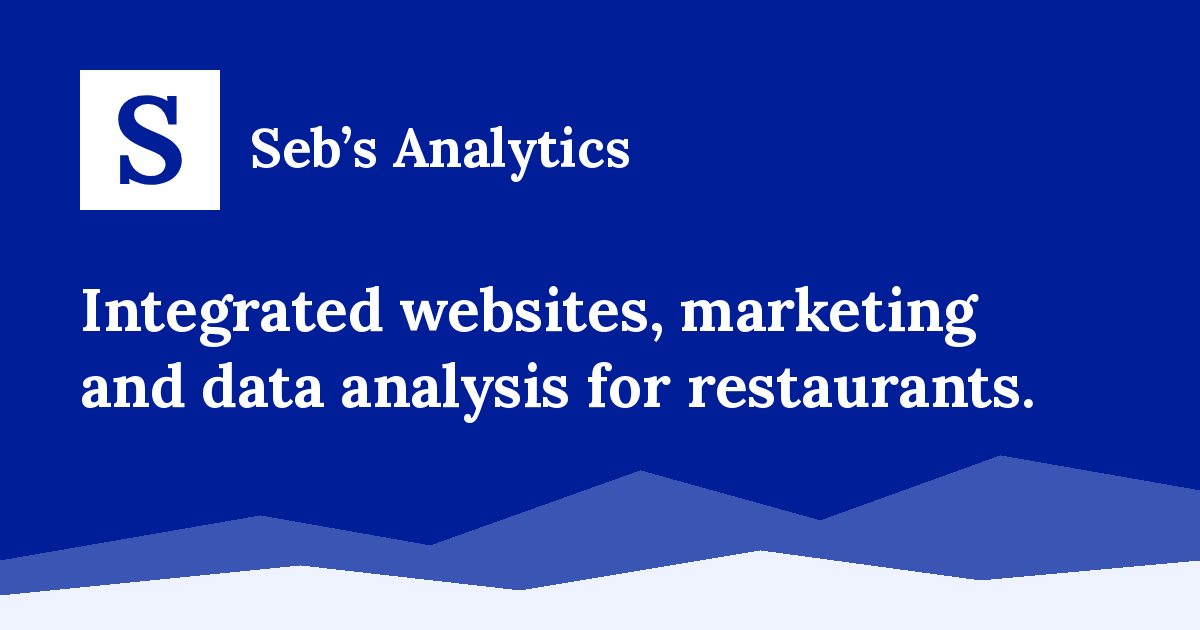
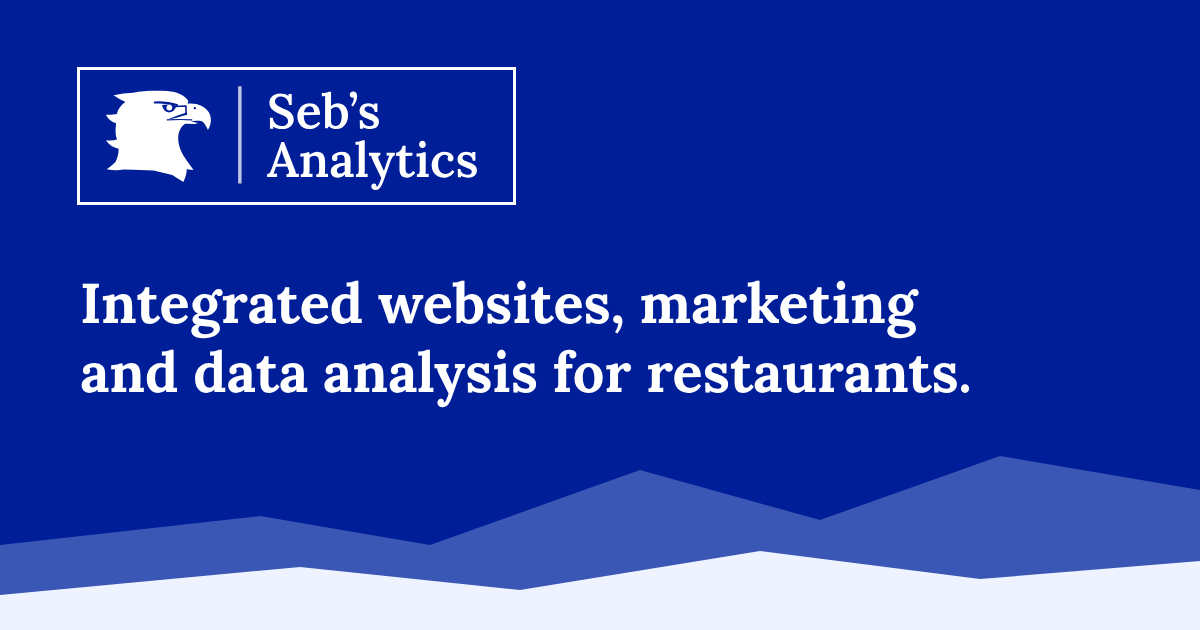
Add files via upload

diff --git a/index.html b/index.html
@@ -20,8 +20,8 @@
 <link rel="apple-touch-icon" href="/apple-touch-icon.png">
 <link rel="preload" href="/fonts/lora.woff2" as="font" type="font/woff2" crossorigin>
 <link rel="preload" href="/fonts/lato-400.woff2" as="font" type="font/woff2" crossorigin>
-<link rel="stylesheet" href="/site.css?v=18f8bafe">
-<script src="/js/home.js?v=8cb29528" defer></script>
+<link rel="stylesheet" href="/site.css?v=88af6a16">
+<script src="/js/home.js?v=9d1bd1b2" defer></script>
 <script src="/js/waves.js?v=0a957a60" defer></script>
 </head>
 <body>
@@ -32,7 +32,7 @@
   <!-- HEADER -->
   <header style="background: #FFFFFF">
     <div class="site-head" style="max-width: 1240px; margin: 0 auto; padding: 10px clamp(20px, 4vw, 40px); box-sizing: border-box; display: flex; flex-wrap: wrap; align-items: center; justify-content: space-between; gap: 16px">
-      <a href="/" class="brand" aria-label="Seb's Analytics, home" style="display: flex; align-items: center; gap: 12px; text-decoration: none; min-height: 52px"><svg width="52" height="52" aria-hidden="true" xmlns="http://www.w3.org/2000/svg" viewBox="0 0 100 100"><rect width="100" height="100" fill="#001E97"/><path fill="#FFFFFF" transform="translate(23.51 80.60) scale(0.08743 -0.08743)" d="M454 476Q445 532 422.0 569.5Q399 607 363.5 626.0Q328 645 281 644Q238 644 205.5 620.0Q173 596 173 558Q173 527 190.5 504.0Q208 481 244.0 461.0Q280 441 335 418Q373 403 413.0 383.0Q453 363 487.0 335.5Q521 308 542.0 271.5Q563 235 563 186Q563 127 531.0 81.0Q499 35 441.5 9.5Q384 -16 307 -16Q267 -16 220.5 -3.5Q174 9 133 33L136 -9H59V225H125Q139 141 189.5 98.5Q240 56 310 56Q346 56 373.0 69.0Q400 82 415.0 103.5Q430 125 430 150Q430 185 405.5 208.0Q381 231 344.5 247.0Q308 263 270 278Q222 298 180.5 320.5Q139 343 108.0 372.0Q77 401 60.0 438.5Q43 476 43 525Q43 556 55.0 589.5Q67 623 94.0 651.5Q121 680 166.0 698.0Q211 716 277 716Q317 716 364.5 704.0Q412 692 446 668L442 709H520V476Z"/></svg><span style="font-family: 'Lora', Georgia, serif; font-weight: 700; font-size: 24px; color: #001E97; letter-spacing: 0.005em">Seb&rsquo;s Analytics</span></a>
+      <a href="/" class="brand" aria-label="Seb's Analytics, home"><img src="/img/sebs-logo.svg" width="190" height="58" alt="" fetchpriority="high"></a>
       <nav aria-label="Main" style="display: flex; flex-wrap: wrap; align-items: center; gap: 8px 26px; font-family: 'Lora', Georgia, serif; font-weight: 600; font-size: 16px">
         <a href="#system" style="color: #001E97; text-decoration: none">The system</a>
         <a href="#research" style="color: #001E97; text-decoration: none">Research</a>
@@ -49,24 +49,15 @@
 
   <!-- WHY -->
   <section style="background: #001E97; color: #FFFFFF; position: relative; overflow: hidden">
-    <svg viewBox="0 0 1440 360" preserveAspectRatio="none" style="position: absolute; left: 0; right: 0; bottom: 0; width: 100%; height: 300px" aria-hidden="true">
+    <svg viewBox="0 0 1440 360" preserveAspectRatio="none" style="position: absolute; left: 0; right: 0; bottom: 0; width: 100%; height: 170px" aria-hidden="true">
       <polygon points="0,360 0,230 160,170 300,215 470,110 600,170 760,60 900,140 1060,40 1220,120 1340,80 1440,110 1440,360" fill="#C6D6FF" opacity="0.35"></polygon>
       <polygon points="0,360 0,280 200,220 360,260 540,170 700,230 880,150 1040,210 1220,160 1440,200 1440,360" fill="#EEF3FF"></polygon>
       <polygon points="0,360 0,320 240,280 420,310 620,250 800,290 1000,240 1180,280 1440,260 1440,360" fill="#FFFFFF"></polygon>
     </svg>
-    <div style="position: relative; max-width: 1240px; margin: 0 auto; padding: 80px clamp(20px, 4vw, 40px) 64px; box-sizing: border-box; text-align: center">
-      <p style="margin: 0; color: #C6D6FF; font-family: 'Lora', Georgia, serif; font-weight: 700; font-size: 15px; letter-spacing: 0.18em; text-transform: uppercase">Websites and booking for New York restaurants</p>
-      <h1 style="margin: 18px auto 0; max-width: 980px; font-family: 'Lora', Georgia, serif; font-weight: 700; font-size: clamp(42px, 6vw, 80px); line-height: 1.02; letter-spacing: -0.015em">Integrated websites, marketing and data analysis for restaurants.</h1>
-      <p style="margin: 24px auto 0; max-width: 720px; color: #D3E0FF; font-size: 20px">Website, menus, ratings, reservations, rewards, guest messages and an app for your team. No fee for each guest.</p>
-      <div style="display: flex; flex-wrap: wrap; justify-content: center; gap: 12px; margin-top: 34px">
-        <a href="#demo" style="background: #FFFFFF; color: #001E97; text-decoration: none; font-weight: 700; padding: 15px 30px; border-radius: 10px; min-height: 54px; box-sizing: border-box; display: inline-flex; align-items: center">Request a demo</a>
-        <a href="#demo" style="background: transparent; color: #FFFFFF; text-decoration: none; font-weight: 700; padding: 15px 30px; border-radius: 10px; border: 2px solid #FFFFFF; min-height: 54px; box-sizing: border-box; display: inline-flex; align-items: center">Discuss your restaurant</a>
-      </div>
-      <div style="position: relative; max-width: 1040px; margin: 64px auto 0; padding: 0 9%">
-        <img src="/img/dashboard.webp" alt="The manager dashboard on a computer: tonight's tables, arrivals and messages" style="width: 100%; height: auto; display: block; filter: drop-shadow(0 30px 50px rgba(0, 8, 50, 0.45))" width="1438" height="942" decoding="async">
-        <img src="/img/phone-booking.webp" alt="Booking a table on a phone" style="position: absolute; left: 0; bottom: -6%; width: 21%; height: auto; filter: drop-shadow(0 22px 36px rgba(0, 8, 50, 0.45))" width="620" height="1344" decoding="async">
-        <img src="/img/phone-notifications.webp" alt="Notifications from the restaurant on a phone's lock screen" style="position: absolute; right: 0; bottom: -6%; width: 21%; height: auto; filter: drop-shadow(0 22px 36px rgba(0, 8, 50, 0.45))" width="620" height="1344" decoding="async">
-      </div>
+    <div style="position: relative; max-width: 1240px; margin: 0 auto; padding: 80px clamp(20px, 4vw, 40px) 130px; box-sizing: border-box; text-align: center">
+      <h1 style="margin: 0 auto; max-width: 980px; font-family: 'Lora', Georgia, serif; font-weight: 700; font-size: clamp(42px, 6vw, 80px); line-height: 1.02; letter-spacing: -0.015em">Integrated websites, marketing and data analysis for restaurants.</h1>
+      <p class="hero-menu" style="margin: 26px auto 0; color: #C6D6FF; font-family: 'Lora', Georgia, serif; font-weight: 700; letter-spacing: 0.18em; line-height: 1.7; text-transform: uppercase"><span style="display: block">Your menu isn&rsquo;t just a list of food.</span><span style="display: block">It&rsquo;s your brand&rsquo;s voice and your most powerful marketing tool.</span></p>
+      <div class="car" id="car" role="region" aria-roledescription="carousel" aria-label="The system on a phone, one screen for each thing it does"><div class="car-stage" id="car-stage" tabindex="0" aria-label="Phone screens: swipe, or use the arrow keys or the buttons"><ul class="car-ring"><li class="car-slide" role="group" aria-roledescription="slide" aria-label="1 of 12: Your website"><img src="/img/phone-home.webp" alt="The restaurant’s website on a phone: its name, Fork’s Rating and the menu" width="620" height="1344" decoding="async" draggable="false"><span class="car-title">Your website</span><span class="car-line">Your restaurant’s own site, on your domain.</span></li><li class="car-slide" role="group" aria-roledescription="slide" aria-label="2 of 12: Menus with photos"><img src="/img/phone-menu.webp" alt="The menu on a phone: a dish with its photo, rating and pairings" width="620" height="1344" decoding="async" draggable="false"><span class="car-title">Menus with photos</span><span class="car-line">Every dish with its photo, price and pairings.</span></li><li class="car-slide" role="group" aria-roledescription="slide" aria-label="3 of 12: Fork’s Rating"><img src="/img/phone-rating.webp" alt="Rating a dish on a phone: flavor, worth every bite, signature style" width="620" height="1344" decoding="async" draggable="false"><span class="car-title">Fork’s Rating</span><span class="car-line">Guests rate each dish and the restaurant.</span></li><li class="car-slide" role="group" aria-roledescription="slide" aria-label="4 of 12: Book a table"><img src="/img/phone-booking.webp" alt="Booking a table on a phone" width="620" height="1344" decoding="async" draggable="false"><span class="car-title">Book a table</span><span class="car-line">Three taps for a guest with an account.</span></li><li class="car-slide" role="group" aria-roledescription="slide" aria-label="5 of 12: Each booking, its QR"><img src="/img/phone-qr.webp" alt="A booking with its QR code on a phone" width="620" height="1344" decoding="async" draggable="false" loading="lazy"><span class="car-title">Each booking, its QR</span><span class="car-line">A countdown, the QR code to check in, and Message.</span></li><li class="car-slide" role="group" aria-roledescription="slide" aria-label="6 of 12: Messages"><img src="/img/phone-chat.webp" alt="A guest and the restaurant writing to each other about a booking" width="620" height="1344" decoding="async" draggable="false" loading="lazy"><span class="car-title">Messages</span><span class="car-line">Every booking comes with its own conversation.</span></li><li class="car-slide" role="group" aria-roledescription="slide" aria-label="7 of 12: Notifications"><img src="/img/phone-notifications.webp" alt="Notifications from the restaurant on a phone’s lock screen" width="620" height="1344" decoding="async" draggable="false" loading="lazy"><span class="car-title">Notifications</span><span class="car-line">Late guests, big parties and new tables, on the lock screen.</span></li><li class="car-slide" role="group" aria-roledescription="slide" aria-label="8 of 12: Tonight’s tables"><img src="/img/phone-manager.webp" alt="The manager’s view of tonight’s tables in the team’s app" width="620" height="1344" decoding="async" draggable="false" loading="lazy"><span class="car-title">Tonight’s tables</span><span class="car-line">Arrivals, no-shows and requests at a glance.</span></li><li class="car-slide" role="group" aria-roledescription="slide" aria-label="9 of 12: The table map"><img src="/img/phone-map.webp" alt="The map of the dining room with each table’s time" width="620" height="1344" decoding="async" draggable="false" loading="lazy"><span class="car-title">The table map</span><span class="car-line">Which tables are free, busy or reserved, right now.</span></li><li class="car-slide" role="group" aria-roledescription="slide" aria-label="10 of 12: Events and tickets"><img src="/img/phone-events.webp" alt="Two events with tickets on sale in the team’s app" width="620" height="1344" decoding="async" draggable="false" loading="lazy"><span class="car-title">Events and tickets</span><span class="car-line">Ticket sales through Square, with a QR for each guest.</span></li><li class="car-slide" role="group" aria-roledescription="slide" aria-label="11 of 12: Your team"><img src="/img/phone-team.webp" alt="The team page: who can manage the restaurant and their roles" width="620" height="1344" decoding="async" draggable="false"><span class="car-title">Your team</span><span class="car-line">Each person with their own login and role.</span></li><li class="car-slide" role="group" aria-roledescription="slide" aria-label="12 of 12: Every change, logged"><img src="/img/phone-changes.webp" alt="Notifications about changes: who changed a price, the team or the hours" width="620" height="1344" decoding="async" draggable="false"><span class="car-title">Every change, logged</span><span class="car-line">Who changed a price, the team or the hours, and when.</span></li></ul><button type="button" class="car-arrow car-prev" aria-label="Previous screen"><svg width="22" height="22" viewBox="0 0 24 24" fill="none" stroke="currentColor" stroke-width="2.6" stroke-linecap="round" stroke-linejoin="round" aria-hidden="true"><path d="m15 18-6-6 6-6"/></svg></button><button type="button" class="car-arrow car-next" aria-label="Next screen"><svg width="22" height="22" viewBox="0 0 24 24" fill="none" stroke="currentColor" stroke-width="2.6" stroke-linecap="round" stroke-linejoin="round" aria-hidden="true"><path d="m9 18 6-6-6-6"/></svg></button></div><p class="car-cap" id="car-cap" aria-live="off"><span class="car-title">Your website</span><span class="car-line">Your restaurant’s own site, on your domain.</span></p><div class="car-bar"><button type="button" class="car-pause" id="car-pause" aria-label="Stop the slides"><svg width="14" height="14" viewBox="0 0 24 24" fill="currentColor" aria-hidden="true"><rect x="6" y="4" width="4" height="16" rx="1"/><rect x="14" y="4" width="4" height="16" rx="1"/></svg></button><div class="car-dots"><button type="button" class="car-dot" aria-label="Show 1 of 12: Your website"></button><button type="button" class="car-dot" aria-label="Show 2 of 12: Menus with photos"></button><button type="button" class="car-dot" aria-label="Show 3 of 12: Fork’s Rating"></button><button type="button" class="car-dot" aria-label="Show 4 of 12: Book a table"></button><button type="button" class="car-dot" aria-label="Show 5 of 12: Each booking, its QR"></button><button type="button" class="car-dot" aria-label="Show 6 of 12: Messages"></button><button type="button" class="car-dot" aria-label="Show 7 of 12: Notifications"></button><button type="button" class="car-dot" aria-label="Show 8 of 12: Tonight’s tables"></button><button type="button" class="car-dot" aria-label="Show 9 of 12: The table map"></button><button type="button" class="car-dot" aria-label="Show 10 of 12: Events and tickets"></button><button type="button" class="car-dot" aria-label="Show 11 of 12: Your team"></button><button type="button" class="car-dot" aria-label="Show 12 of 12: Every change, logged"></button></div></div></div>
     </div>
   </section><section style="background: #FFFFFF">
     <div style="max-width: 1240px; margin: 0 auto; padding: 72px clamp(20px, 4vw, 40px) 96px; box-sizing: border-box; display: flex; flex-wrap: wrap; gap: 56px; align-items: flex-start">
@@ -337,7 +328,7 @@
     <div style="max-width: 1240px; margin: 0 auto; padding: 56px clamp(20px, 4vw, 40px) 32px; box-sizing: border-box">
       <div style="display: flex; flex-wrap: wrap; gap: 40px; justify-content: space-between; align-items: flex-start">
         <div style="flex: 1 1 300px">
-          <div style="display: flex; align-items: center; gap: 12px"><svg width="56" height="56" aria-hidden="true" xmlns="http://www.w3.org/2000/svg" viewBox="0 0 100 100"><rect width="100" height="100" fill="#FFFFFF"/><path fill="#001E97" transform="translate(23.51 80.60) scale(0.08743 -0.08743)" d="M454 476Q445 532 422.0 569.5Q399 607 363.5 626.0Q328 645 281 644Q238 644 205.5 620.0Q173 596 173 558Q173 527 190.5 504.0Q208 481 244.0 461.0Q280 441 335 418Q373 403 413.0 383.0Q453 363 487.0 335.5Q521 308 542.0 271.5Q563 235 563 186Q563 127 531.0 81.0Q499 35 441.5 9.5Q384 -16 307 -16Q267 -16 220.5 -3.5Q174 9 133 33L136 -9H59V225H125Q139 141 189.5 98.5Q240 56 310 56Q346 56 373.0 69.0Q400 82 415.0 103.5Q430 125 430 150Q430 185 405.5 208.0Q381 231 344.5 247.0Q308 263 270 278Q222 298 180.5 320.5Q139 343 108.0 372.0Q77 401 60.0 438.5Q43 476 43 525Q43 556 55.0 589.5Q67 623 94.0 651.5Q121 680 166.0 698.0Q211 716 277 716Q317 716 364.5 704.0Q412 692 446 668L442 709H520V476Z"/></svg><span style="font-family: 'Lora', Georgia, serif; font-weight: 700; font-size: 24px; color: #FFFFFF">Seb&rsquo;s Analytics LLC</span></div>
+          <img class="foot-logo" src="/img/sebs-logo.svg" width="210" height="64" alt="Seb's Analytics" loading="lazy">
           <p style="margin: 16px 0 0; font-size: 15px; max-width: 340px">Websites, systems and research for New York restaurants.</p>
         </div>
         <nav aria-label="Footer" style="flex: 0 1 auto; display: flex; flex-wrap: wrap; gap: 40px; font-size: 15px">

diff --git a/js/home.js b/js/home.js
@@ -270,6 +270,119 @@
     });
     box.addEventListener('blur', function () { setTimeout(close, 150); });
   }
-  function startAll() { video(); addressSuggestions(); start(); }
+  // The carousel at the top (13 Nov): one phone screen for each thing the system does, on a 3D ring like the food caves
+  // (13 Nov 10:42–10:43: "make it continue … infinity", "different sizes like in 3D, no plain"). The screen in front is big;
+  // the others get smaller, turn and go further back on each side, and it goes round without end in both directions.
+  // Swipe or drag, tap a side screen, the arrows, the dots or the keyboard. It moves on by itself every 4.5 s while it is on
+  // screen, waits 5 s after someone uses it, and stops for the Stop button, while the pointer or the keyboard is on it,
+  // and always with "reduce motion".
+  function carousel() {
+    var root = document.getElementById('car'), stage = document.getElementById('car-stage');
+    if (!root || !stage) return;
+    var items = [].slice.call(stage.querySelectorAll('.car-slide')), dots = [].slice.call(root.querySelectorAll('.car-dot'));
+    var N = items.length, cap = document.getElementById('car-cap'), pauseBtn = document.getElementById('car-pause');
+    var capT = cap.querySelector('.car-title'), capL = cap.querySelector('.car-line');
+    var reduce = false, stopped = false, hovering = false, seen = true, lastUse = 0;
+    var pos = 0, target = 0, from = 0, t0 = 0, raf = 0, cur = -1, drag = null;
+    try { reduce = window.matchMedia('(prefers-reduced-motion: reduce)').matches; } catch (e) {}
+    if (!N) return;
+    function small() { try { return window.matchMedia('(max-width: 599px)').matches; } catch (e) { return false; } }
+    function gap() { return small() ? 112 : 192; }                      // px from the front screen to the next one (they overlap)
+    function ring(d) { d = ((d % N) + N) % N; return d > N / 2 ? d - N : d; }   // the shortest way round, signed
+    function layout() {
+      var S = gap();
+      items.forEach(function (el, i) {
+        var d = ring(i - pos), a = Math.abs(d), sg = d < 0 ? -1 : 1;
+        var x = sg * S * (1 - Math.pow(0.76, a)) / 0.24;                // each next screen a little closer than the last
+        // 13 Nov 11:01: one over the other, a little see-through (the front one solid), like the caves
+        var op = a <= 2 ? 1 - 0.23 * a : Math.max(0, 0.54 - (a - 2) * 0.75);
+        // each screen turned with its own perspective, stacked by z-index (front on top): no screen can cut through another
+        // 13 Nov 10:59: turned like the food caves — the outer edge comes forward, so each side screen opens toward the middle;
+        // 11:03: "demasiado cerradas … reducir un poco el grado de inclinación" → 16° (was 26°)
+        el.style.transform = 'translateX(' + x.toFixed(1) + 'px) perspective(1100px) rotateY(' + (-sg * 16 * Math.min(a, 1)).toFixed(2) + 'deg) scale(' + Math.pow(0.8, a).toFixed(4) + ')';
+        el.style.opacity = op.toFixed(3);
+        el.style.zIndex = String(200 - Math.round(a * 20));
+        el.style.visibility = op < 0.02 ? 'hidden' : 'visible';
+      });
+      var i = ((Math.round(pos) % N) + N) % N;
+      if (i !== cur) mark(i);
+    }
+    function mark(i) {
+      cur = i;
+      items.forEach(function (el, k) { el.classList.toggle('on', k === i); });
+      dots.forEach(function (d, k) { if (k === i) d.setAttribute('aria-current', 'true'); else d.removeAttribute('aria-current'); });
+      capT.textContent = items[i].querySelector('.car-title').textContent;
+      capL.textContent = items[i].querySelector('.car-line').textContent;
+    }
+    function frame(now) {
+      var k = Math.min(1, (now - t0) / 650), e = 1 - Math.pow(1 - k, 3);
+      pos = from + (target - from) * e; layout();
+      if (k < 1) raf = requestAnimationFrame(frame);
+      else { raf = 0; pos = target = ((Math.round(target) % N) + N) % N; layout(); }   // keep the numbers small; same picture
+    }
+    function moveTo(t) {
+      target = t;
+      if (reduce) { pos = target = ((Math.round(t) % N) + N) % N; layout(); return; }
+      from = pos; t0 = performance.now();
+      if (!raf) raf = requestAnimationFrame(frame);
+    }
+    function step(d) { moveTo(Math.round(target) + d); }
+    function goTo(i) { moveTo(Math.round(target) + ring(i - Math.round(target))); }
+    function used() { lastUse = Date.now(); cap.setAttribute('aria-live', 'polite'); }
+    function setStopped(v) {
+      stopped = v;
+      pauseBtn.setAttribute('aria-label', v ? 'Play the slides' : 'Stop the slides');
+      pauseBtn.innerHTML = v
+        ? '<svg width="14" height="14" viewBox="0 0 24 24" fill="currentColor" aria-hidden="true"><path d="M7 4.5v15a1 1 0 0 0 1.5.86l12-7.5a1 1 0 0 0 0-1.72l-12-7.5A1 1 0 0 0 7 4.5z"/></svg>'
+        : '<svg width="14" height="14" viewBox="0 0 24 24" fill="currentColor" aria-hidden="true"><rect x="6" y="4" width="4" height="16" rx="1"/><rect x="14" y="4" width="4" height="16" rx="1"/></svg>';
+    }
+    function tick() { if (!stopped && !hovering && seen && !document.hidden && !drag && Date.now() - lastUse > 5000) step(1); }
+    root.querySelector('.car-prev').addEventListener('click', function () { used(); step(-1); });
+    root.querySelector('.car-next').addEventListener('click', function () { used(); step(1); });
+    dots.forEach(function (d, i) { d.addEventListener('click', function () { used(); goTo(i); }); });
+    pauseBtn.addEventListener('click', function () { setStopped(!stopped); });
+    // swipe or drag the ring; a tap on a side screen brings it to the front
+    stage.addEventListener('pointerdown', function (e) {
+      if (e.button || e.target.closest('.car-arrow')) return;
+      if (raf) { cancelAnimationFrame(raf); raf = 0; }
+      var hit = e.target.closest('.car-slide');
+      drag = { x: e.clientX, p: pos, last: e.clientX, lt: performance.now(), v: 0, moved: false, slide: hit ? items.indexOf(hit) : -1, id: e.pointerId };
+      used();
+    });
+    stage.addEventListener('pointermove', function (e) {
+      if (!drag || e.pointerId !== drag.id) return;
+      var dx = e.clientX - drag.x;
+      if (!drag.moved && Math.abs(dx) > 6) { drag.moved = true; try { stage.setPointerCapture(e.pointerId); } catch (er) {} }
+      if (!drag.moved) return;
+      var now = performance.now(), dt = Math.max(1, now - drag.lt);
+      drag.v = 0.8 * drag.v + 0.2 * (-(e.clientX - drag.last) / gap()) / (dt / 1000);
+      drag.last = e.clientX; drag.lt = now;
+      pos = target = drag.p - dx / gap(); layout();
+    });
+    function release(e) {
+      if (!drag || (e && e.pointerId !== drag.id)) return;
+      var d = drag; drag = null; used();
+      if (d.moved) moveTo(Math.round(pos + Math.max(-0.6, Math.min(0.6, d.v * 0.15))));   // a quick flick carries on to the next screen
+      else if (d.slide >= 0 && d.slide !== cur) goTo(d.slide);
+      else moveTo(Math.round(pos));
+    }
+    stage.addEventListener('pointerup', release);
+    stage.addEventListener('pointercancel', release);
+    stage.addEventListener('keydown', function (e) {
+      if (e.key === 'ArrowRight') { e.preventDefault(); used(); step(1); }
+      else if (e.key === 'ArrowLeft') { e.preventDefault(); used(); step(-1); }
+    });
+    root.addEventListener('mouseenter', function () { hovering = true; });
+    root.addEventListener('mouseleave', function () { hovering = false; });
+    root.addEventListener('focusin', function () { hovering = true; });
+    root.addEventListener('focusout', function () { hovering = false; });
+    try { new IntersectionObserver(function (es) { seen = es[0].isIntersecting; }).observe(root); } catch (e) {}
+    window.addEventListener('resize', layout);
+    setStopped(reduce);
+    layout();
+    if (!reduce) setInterval(tick, 4500);
+  }
+
+  function startAll() { video(); carousel(); addressSuggestions(); start(); }
   if (document.readyState === 'loading') document.addEventListener('DOMContentLoaded', startAll); else startAll();
 })();

diff --git a/site.css b/site.css
@@ -68,3 +68,48 @@ section[id] { scroll-margin-top: 12px; }
 .addr-list .addr-credit:hover { background: none; color: #5A6170; }
 .addr-note { font-size: 13px; color: #5A6170; min-height: 0; }
 .addr-note:empty { display: none; }
+
+/* the logo (12 Nov): his eagle + "Seb's Analytics" in a blue box */
+.brand { display: block; line-height: 0; }
+.brand img { display: block; height: 58px; width: auto; }
+.foot-logo { display: block; height: 64px; width: auto; box-shadow: 0 0 0 2px #FFFFFF; }   /* the same blue logo; the frame shows the box on the blue footer */
+@media (max-width: 600px) { .brand img { height: 46px; } .foot-logo { height: 56px; } }
+
+/* the menu words under the big title (13 Nov): small spaced capitals, a little bigger than the old top line (15 px) */
+.hero-menu { font-size: 18px; max-width: 960px; }
+@media (max-width: 600px) { .hero-menu { font-size: 16px; } }
+
+/* ── the carousel at the top (13 Nov): one phone screen for each thing the system does, on a 3D ring like the food
+   caves — the one in front big, the others smaller, turned and further back on each side (js/home.js places them) ── */
+.car { position: relative; margin: 48px auto 0; max-width: 1240px; }
+.car-stage { position: relative; height: 600px; touch-action: pan-y; user-select: none; -webkit-user-select: none;
+  cursor: grab; outline: none; overflow: hidden; }
+.car-stage:active { cursor: grabbing; }
+.car-stage:focus-visible { outline: 2px solid #FFFFFF; outline-offset: 4px; border-radius: 16px; }
+.car-ring { list-style: none; margin: 0; padding: 0; position: absolute; inset: 0; }
+.car-slide { position: absolute; left: 50%; top: 14px; width: 262px; margin-left: -131px; transform-origin: 50% 50%; will-change: transform, opacity; }
+.car-slide img { width: 100%; height: auto; display: block; pointer-events: none; -webkit-user-drag: none; filter: drop-shadow(0 22px 30px rgba(0, 8, 50, 0.5)); }
+.car-slide .car-title, .car-slide .car-line { display: none; }
+.car-cap { margin: 6px auto 0; min-height: 76px; max-width: 520px; text-align: center; }
+.car-cap .car-title { display: block; font-family: 'Lora', Georgia, serif; font-weight: 700; font-size: 24px; color: #FFFFFF; }
+.car-cap .car-line { display: block; margin-top: 4px; font-size: 16px; line-height: 1.45; color: #C6D6FF; }
+.car-arrow { position: absolute; top: 260px; z-index: 300; width: 48px; height: 48px; border-radius: 50%; border: 0; background: #FFFFFF; color: #001E97;
+  display: flex; align-items: center; justify-content: center; cursor: pointer; box-shadow: 0 8px 22px rgba(0, 8, 50, 0.35); }
+.car-prev { left: 4px; } .car-next { right: 4px; }
+.car-arrow:focus-visible, .car-dot:focus-visible, .car-pause:focus-visible { outline: 2px solid #FFFFFF; outline-offset: 3px; }
+.car-bar { display: flex; align-items: center; justify-content: center; gap: 14px; margin-top: 10px; }
+.car-dots { display: flex; flex-wrap: wrap; justify-content: center; gap: 2px; }
+.car-dot { width: 24px; height: 24px; border: 0; padding: 0; background: none; cursor: pointer; display: flex; align-items: center; justify-content: center; }
+.car-dot::after { content: ''; width: 8px; height: 8px; border-radius: 50%; background: rgba(255, 255, 255, 0.4); transition: background 0.2s, transform 0.2s; }
+.car-dot[aria-current="true"]::after { background: #FFFFFF; transform: scale(1.35); }
+.car-pause { width: 34px; height: 34px; border-radius: 50%; border: 1.5px solid rgba(255, 255, 255, 0.6); background: none; color: #FFFFFF; cursor: pointer;
+  display: flex; align-items: center; justify-content: center; }
+@media (max-width: 599px) {
+  .car { margin-top: 36px; }
+  .car-stage { height: 452px; }
+  .car-slide { width: 196px; margin-left: -98px; top: 10px; }
+  .car-arrow { top: 190px; width: 42px; height: 42px; }
+  .car-prev { left: 0; } .car-next { right: 0; }
+  .car-cap .car-title { font-size: 21px; } .car-cap .car-line { font-size: 15px; }
+  .car-dot { width: 20px; }
+}

diff --git a/privacy.html b/privacy.html
@@ -10,7 +10,7 @@
 <link rel="icon" href="/favicon.png" type="image/png">
 <link rel="apple-touch-icon" href="/apple-touch-icon.png">
 <link rel="preload" href="/fonts/lora.woff2" as="font" type="font/woff2" crossorigin>
-<link rel="stylesheet" href="/site.css?v=18f8bafe">
+<link rel="stylesheet" href="/site.css?v=88af6a16">
 <style>
   .doc { max-width: 760px; margin: 0 auto; padding: 48px 20px 80px; box-sizing: border-box; font-size: 17px; line-height: 1.65; color: #1E2025; }
   .doc h1 { font-family: 'Lora', Georgia, serif; color: #001E97; font-size: clamp(32px, 5vw, 44px); line-height: 1.15; margin: 0; }
@@ -23,7 +23,7 @@
 <body>
 <header style="background: #FFFFFF; border-bottom: 1px solid #E3E8F2">
   <div class="site-head" style="max-width: 1240px; margin: 0 auto; padding: 10px clamp(20px, 4vw, 40px); box-sizing: border-box; display: flex; flex-wrap: wrap; align-items: center; justify-content: space-between; gap: 16px">
-    <a href="/" aria-label="Seb's Analytics, home" style="display: block; text-decoration: none"><span style="display: flex; align-items: center; gap: 10px"><svg width="48" height="48" aria-hidden="true" xmlns="http://www.w3.org/2000/svg" viewBox="0 0 100 100"><rect width="100" height="100" fill="#001E97"/><path fill="#FFFFFF" transform="translate(23.51 80.60) scale(0.08743 -0.08743)" d="M454 476Q445 532 422.0 569.5Q399 607 363.5 626.0Q328 645 281 644Q238 644 205.5 620.0Q173 596 173 558Q173 527 190.5 504.0Q208 481 244.0 461.0Q280 441 335 418Q373 403 413.0 383.0Q453 363 487.0 335.5Q521 308 542.0 271.5Q563 235 563 186Q563 127 531.0 81.0Q499 35 441.5 9.5Q384 -16 307 -16Q267 -16 220.5 -3.5Q174 9 133 33L136 -9H59V225H125Q139 141 189.5 98.5Q240 56 310 56Q346 56 373.0 69.0Q400 82 415.0 103.5Q430 125 430 150Q430 185 405.5 208.0Q381 231 344.5 247.0Q308 263 270 278Q222 298 180.5 320.5Q139 343 108.0 372.0Q77 401 60.0 438.5Q43 476 43 525Q43 556 55.0 589.5Q67 623 94.0 651.5Q121 680 166.0 698.0Q211 716 277 716Q317 716 364.5 704.0Q412 692 446 668L442 709H520V476Z"/></svg><span style="font-family: 'Lora', Georgia, serif; font-weight: 700; font-size: 22px; color: #001E97">Seb&rsquo;s Analytics</span></span></a>
+    <a href="/" aria-label="Seb's Analytics, home" style="display: block; text-decoration: none"><img src="/img/sebs-logo.svg" width="171" height="52" alt="" style="display: block; height: 52px; width: auto"></a>
     <a href="/#demo" style="background: #001E97; color: #FFFFFF; text-decoration: none; padding: 12px 22px; border-radius: 10px; min-height: 44px; box-sizing: border-box; display: inline-flex; align-items: center; font-family: 'Lora', Georgia, serif; font-weight: 600">Request a demo</a>
   </div>
 </header>

diff --git a/admin.html b/admin.html
@@ -8,7 +8,7 @@
 <meta name="theme-color" content="#001E97">
 <link rel="icon" href="/favicon.png" type="image/png">
 <link rel="apple-touch-icon" href="/apple-touch-icon.png">
-<link rel="stylesheet" href="/site.css?v=18f8bafe">
+<link rel="stylesheet" href="/site.css?v=88af6a16">
 <style>
   body { background: #F5F8FF; font-size: 16px; line-height: 1.5; }
   .bar { background: #FFFFFF; border-bottom: 1px solid #E3E8F2; }
@@ -54,7 +54,7 @@
 <body>
 <header class="bar">
   <div class="bar-in">
-    <a href="/" aria-label="Seb's Analytics website" style="text-decoration: none"><span style="display: flex; align-items: center; gap: 10px"><svg width="44" height="44" aria-hidden="true" xmlns="http://www.w3.org/2000/svg" viewBox="0 0 100 100"><rect width="100" height="100" fill="#001E97"/><path fill="#FFFFFF" transform="translate(23.51 80.60) scale(0.08743 -0.08743)" d="M454 476Q445 532 422.0 569.5Q399 607 363.5 626.0Q328 645 281 644Q238 644 205.5 620.0Q173 596 173 558Q173 527 190.5 504.0Q208 481 244.0 461.0Q280 441 335 418Q373 403 413.0 383.0Q453 363 487.0 335.5Q521 308 542.0 271.5Q563 235 563 186Q563 127 531.0 81.0Q499 35 441.5 9.5Q384 -16 307 -16Q267 -16 220.5 -3.5Q174 9 133 33L136 -9H59V225H125Q139 141 189.5 98.5Q240 56 310 56Q346 56 373.0 69.0Q400 82 415.0 103.5Q430 125 430 150Q430 185 405.5 208.0Q381 231 344.5 247.0Q308 263 270 278Q222 298 180.5 320.5Q139 343 108.0 372.0Q77 401 60.0 438.5Q43 476 43 525Q43 556 55.0 589.5Q67 623 94.0 651.5Q121 680 166.0 698.0Q211 716 277 716Q317 716 364.5 704.0Q412 692 446 668L442 709H520V476Z"/></svg><span style="font-family: 'Lora', Georgia, serif; font-weight: 700; font-size: 20px; color: #001E97">Seb&rsquo;s Analytics</span></span></a>
+    <a href="/" aria-label="Seb's Analytics website" style="text-decoration: none"><img src="/img/sebs-logo.svg" width="157" height="48" alt="" style="display: block; height: 48px; width: auto"></a>
     <span style="font-family: 'Lora', Georgia, serif; font-weight: 700; color: #001E97">Admin</span>
   </div>
 </header>
